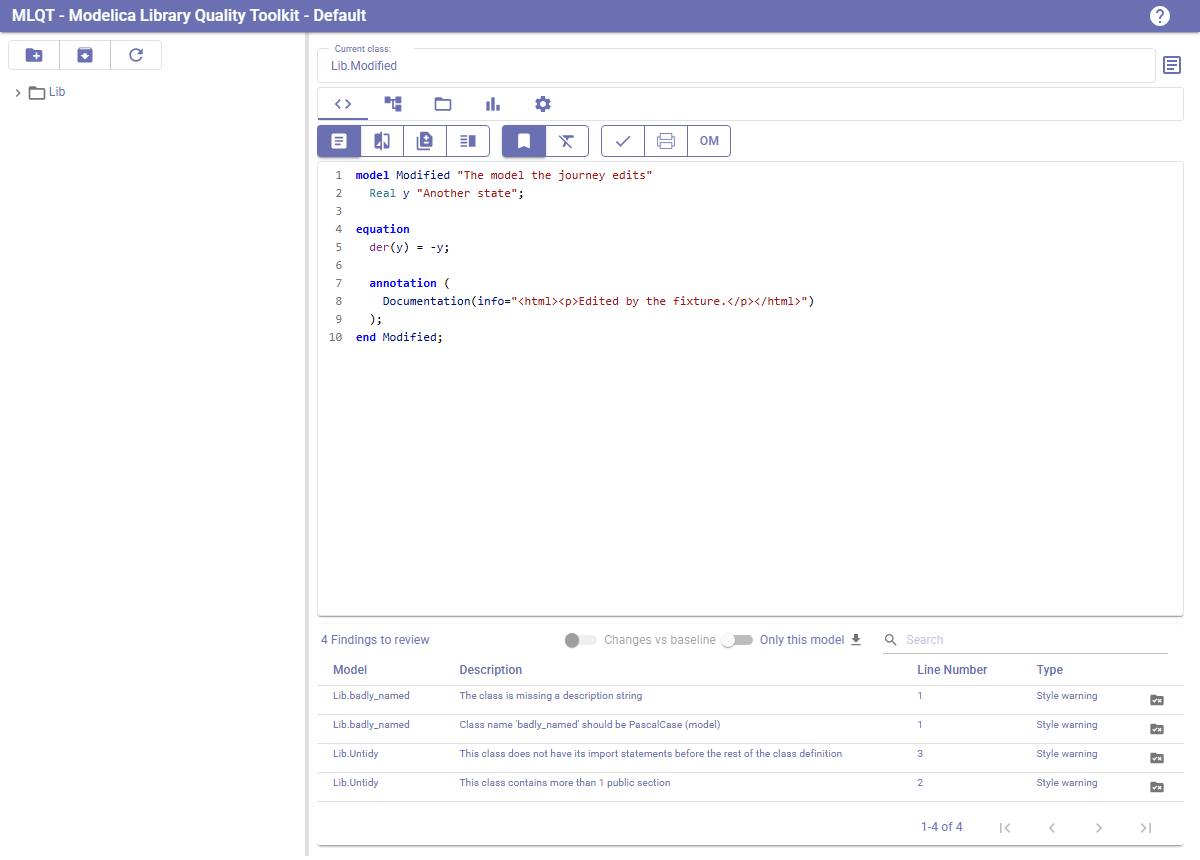
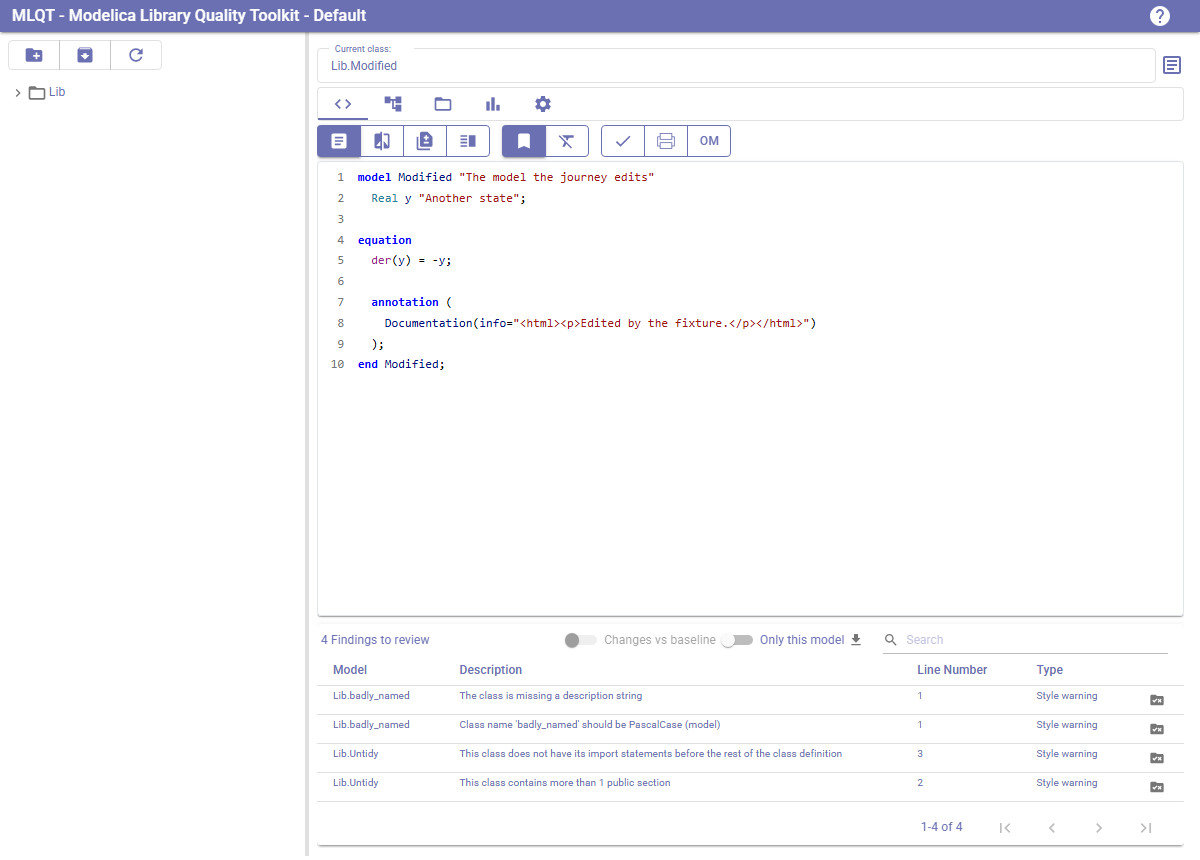
Correcting screenshots and fixing the automated generation of them
Before taking some screenshots its necessary to wait for the MudBlazor animation to complete.  Added a 500ms wait in DocumentationScreenshots.cs with the reasoning so that it doesn't get removed in the future.
The DiffView layout wasn't rendering correctly when being used to generate the screenshots and the problem was that the host assembly wasn't loading a CSS bundle that it needed.  Added a link in App.razor to the CSS file for MLQT.TestHost.
Added tests to check that the CSS is correctly loaded to avoid this failing again in the future.
Regenerated the screenshots affected by these problems

Changed region(s): [[0.2775, 0.1814, 0.6783, 0.4233]]

diff --git a/MLQT.Journeys/ScopedCssJourney.cs b/MLQT.Journeys/ScopedCssJourney.cs
@@ -1,0 +1,86 @@
+using Microsoft.Playwright;
+using Xunit;
+
+namespace MLQT.Journeys;
+
+/// <summary>
+/// The scoped CSS in <c>MLQT.Shared</c>'s <c>.razor.css</c> files reaches the browser.
+/// </summary>
+/// <remarks>
+/// <para>A component's scoped stylesheet is delivered through the *host's* bundle, which is named
+/// after the host assembly and so cannot be listed in <see cref="MLQT.Shared.HostAssetManifest"/> —
+/// each host links its own. <c>HostAssetManifestTests</c> holds the Photino page to that by reading
+/// the file, and cannot hold this host to it: the test host's page is generated Razor rather than a
+/// <c>wwwroot/index.html</c>, so it is not in that test's list. It was the one that was missing the
+/// link.</para>
+///
+/// <para><b>The failure is invisible until you look at a picture.</b> The page renders, MudBlazor is
+/// styled, and the code viewer's syntax colours are right — <c>CodeReview</c> injects those as a
+/// runtime <c>&lt;style&gt;</c> block from the user's settings, so the one part of the code display
+/// that is <i>not</i> scoped goes on working. What disappears is every rule in a <c>.razor.css</c>:
+/// <c>DiffViewer</c> loses <c>display: flex</c> on <c>.diff-side-by-side</c> and stacks the Original
+/// and Modified panes vertically, the added/removed line colours go, and the rule rows in settings
+/// lose their spacing. That reached <c>Documentation/Images</c>, because the screenshots are
+/// generated through this host.</para>
+///
+/// <para>So this asks the browser rather than the file: are the scoped rules actually loaded and
+/// parsed? Checked by selector text rather than by computed style, so it needs no particular page to
+/// be open and does not depend on the generated scope hash, which changes whenever the stylesheet
+/// does.</para>
+/// </remarks>
+[Collection(JourneyCollection.Name)]
+public class ScopedCssJourney(TestHostFixture host)
+{
+    /// <summary>
+    /// Every selector the page has loaded, following <c>@import</c> — which is how the host bundle
+    /// reaches a referenced library's, and therefore the only way MLQT.Shared's rules arrive.
+    /// </summary>
+    private const string SelectorsInLoadedStylesheets = """
+        () => {
+            const selectors = [];
+            const walk = sheet => {
+                let rules;
+                try { rules = sheet.cssRules; } catch { return; }   // a cross-origin sheet
+                for (const rule of rules) {
+                    if (rule.styleSheet) walk(rule.styleSheet);      // @import
+                    else if (rule.selectorText) selectors.push(rule.selectorText);
+                }
+            };
+            for (const sheet of document.styleSheets) walk(sheet);
+            return selectors;
+        }
+        """;
+
+    [Fact]
+    public async Task TheHostPageLinksItsScopedCssBundle()
+    {
+        var page = await host.NewPageAsync();
+        await page.GotoAsync(host.BaseUrl, new PageGotoOptions { WaitUntil = WaitUntilState.NetworkIdle });
+
+        var hrefs = await page.EvalOnSelectorAllAsync<string[]>(
+            "link[rel=stylesheet]", "links => links.map(l => l.getAttribute('href'))");
+
+        Assert.Contains(hrefs, h => h is not null && h.EndsWith(".styles.css", StringComparison.Ordinal));
+    }
+
+    [Theory]
+    // One selector from each of MLQT.Shared's scoped stylesheets, so a bundle that stops being
+    // linked fails here rather than in a screenshot nobody diffs.
+    //
+    // CodeViewer is deliberately not among them, and that is the whole shape of this defect:
+    // every selector it scopes is also written by CodeReview's runtime <style> block, so it goes on
+    // looking right with no scoped CSS at all and would have passed this test throughout.
+    [InlineData(".diff-side-by-side")]   // DiffViewer      - the panes that stacked
+    [InlineData(".diff-line-added")]     // DiffViewer      - the green/red that went with them
+    [InlineData(".mlqt-rule-row")]       // RuleSeverityRow
+    [InlineData(".mlqt-trend-chart")]    // MetricsDashboard
+    public async Task AScopedRuleIsLoaded(string selector)
+    {
+        var page = await host.NewPageAsync();
+        await page.GotoAsync(host.BaseUrl, new PageGotoOptions { WaitUntil = WaitUntilState.NetworkIdle });
+
+        var selectors = await page.EvaluateAsync<string[]>(SelectorsInLoadedStylesheets);
+
+        Assert.Contains(selectors, s => s.Contains(selector, StringComparison.Ordinal));
+    }
+}

diff --git a/MLQT.Shared.Tests/HostAssetManifestTests.cs b/MLQT.Shared.Tests/HostAssetManifestTests.cs
@@ -85,6 +85,30 @@ public class HostAssetManifestTests
 
     [Theory]
     [MemberData(nameof(HostPages))]
+    public void ItLoadsItsOwnScopedCssBundle(string host, string path)
+    {
+        // The one stylesheet the manifest cannot name, because it is named after the host - so the
+        // list above deliberately filters it out, and for a while nothing checked it at all. The
+        // test host had no such link, which is not a failure anyone sees: the page renders, MudBlazor
+        // is styled, and the code viewer's syntax colours are right because CodeReview injects those
+        // at runtime. What vanishes is every .razor.css - DiffViewer's panes lose `display: flex`
+        // and stack, which is how the documentation screenshots came to show one below the other.
+        var links = Regex.Matches(File.ReadAllText(path), @"<link[^>]*\bhref=""([^""]+)""")
+                         .Select(m => m.Groups[1].Value)
+                         .ToList();
+
+        Assert.Contains(HostAssetManifest.ScopedCssBundleFor(host), links);
+    }
+
+    [Fact]
+    public void TheScopedCssBundleIsNamedAfterTheHost()
+    {
+        Assert.Equal("MLQT.Photino.styles.css", HostAssetManifest.ScopedCssBundleFor("MLQT.Photino"));
+        Assert.Equal("MLQT.TestHost.styles.css", HostAssetManifest.ScopedCssBundleFor("MLQT.TestHost"));
+    }
+
+    [Theory]
+    [MemberData(nameof(HostPages))]
     public void ItLoadsOneBlazorBootstrapScript(string host, string path)
     {
         // Exactly one, and one of the two the manifest names. A page with neither does not start; a

diff --git a/MLQT.Shared/HostAssetManifest.cs b/MLQT.Shared/HostAssetManifest.cs
@@ -67,6 +67,23 @@ public static class HostAssetManifest
     ];
 
     /// <summary>
+    /// The scoped-CSS bundle a host must load, named after the host assembly.
+    /// </summary>
+    /// <remarks>
+    /// <para>Not in <see cref="Stylesheets"/> because the name differs per host, which is exactly
+    /// why it went missing from one of them. A host page without it still renders: MudBlazor is
+    /// styled, and the code viewer's syntax colours are right because <c>CodeReview</c> injects those
+    /// as a runtime <c>&lt;style&gt;</c> block. What disappears is every rule in a
+    /// <c>.razor.css</c> — so <c>DiffViewer</c>'s <c>.diff-side-by-side</c> loses
+    /// <c>display: flex</c> and the two panes stack, one of them below the fold. The test host was
+    /// missing it, and the documentation screenshots were generated through the test host.</para>
+    /// <para>The bundle itself is only an <c>@import</c> list pointing at each referenced library's
+    /// bundle, so a host that does not link it loads none of them.</para>
+    /// </remarks>
+    public static string ScopedCssBundleFor(string hostAssemblyName) =>
+        $"{hostAssemblyName}.styles.css";
+
+    /// <summary>
     /// The Blazor bootstrap script for a webview host — <c>MLQT.Photino</c>. The test host uses
     /// <c>_framework/blazor.server.js</c> instead, which is the only difference between the pages.
     /// </summary>

diff --git a/MLQT.Journeys/DocumentationScreenshots.cs b/MLQT.Journeys/DocumentationScreenshots.cs
@@ -614,6 +614,14 @@ public class DocumentationScreenshots(TestHostFixture host) : IDisposable
         if (await nameField.CountAsync() > 0)
         {
             await nameField.FillAsync("Building Simulation");
+
+            // Let the floating label finish moving. MudBlazor animates it out of the empty field and
+            // up to the top border over 200ms (.mud-input-label-animated), and ShotAroundAsync —
+            // unlike ShotAsync — does not settle, so the shot landed mid-transform and the picture
+            // showed the label struck through the text the user had just typed. It looked like a
+            // rendering defect in MLQT, and it is only a screenshot taken too early.
+            await page.WaitForTimeoutAsync(500);
+
             await ShotAroundAsync(page, RowContaining(page, "New Project"), "getting-started-4", margin: 16);
         }
 
